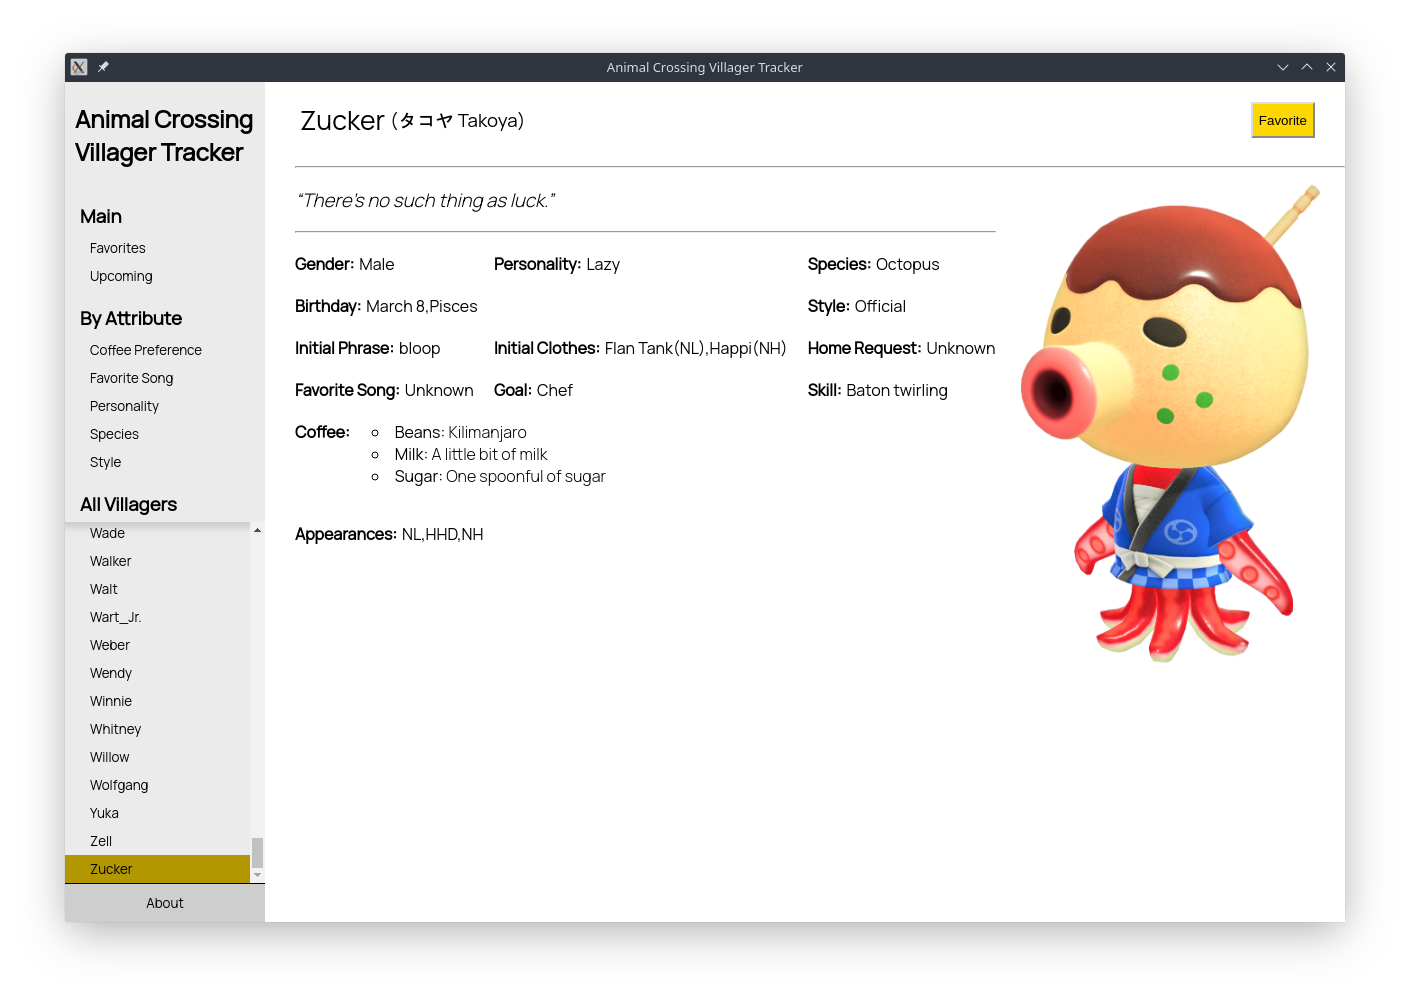
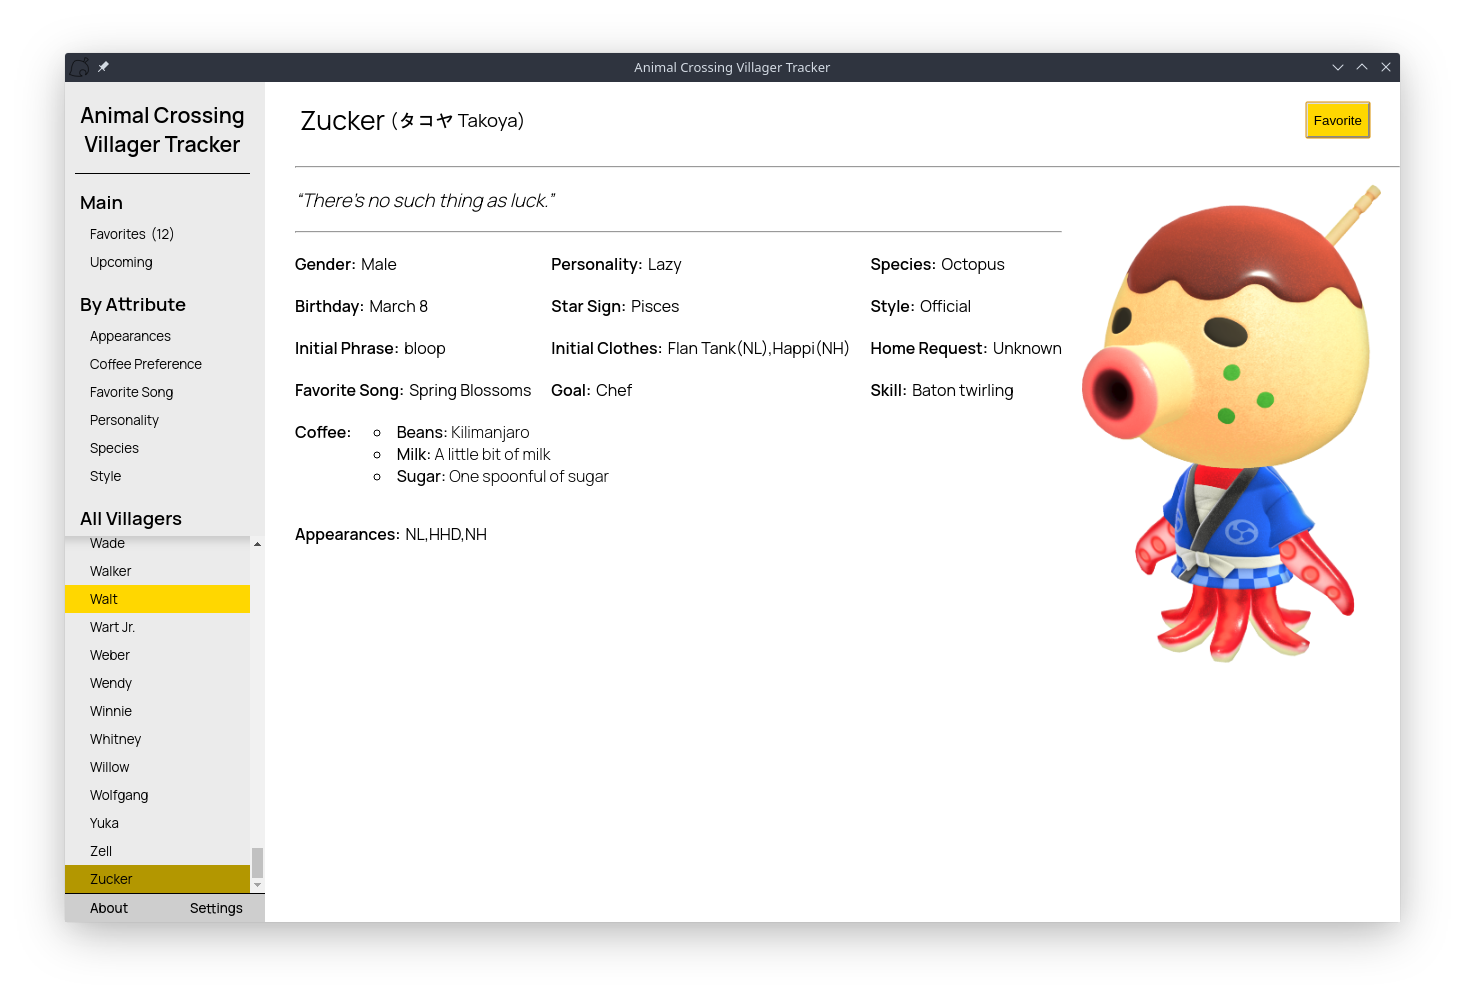
Updated App Menu, fixed picking new page on undo, still bugged on undo

diff --git a/main-process/app-menu.js b/main-process/app-menu.js
@@ -1,4 +1,5 @@
 const {BrowserWindow, app, shell, remote} = require('electron')
+const Navigation = require("../assets/navigation-stack");
 
 module.exports = {
 
@@ -7,6 +8,17 @@ module.exports = {
         let AppMenu = [{
             label: 'File',
             submenu: [{
+                label: 'Go Back',
+                accelerator: 'CmdOrCtrl+Z',
+                enabled: true,
+                key: 'goBack',
+                click: () => {
+                  // app.emit('activate')
+                  Navigation.pop();
+                }
+              }, {
+                type: 'separator'
+              }, {
                 label: 'Quit',
                 accelerator: 'Ctrl+Q',
                 click: () => { 
@@ -88,10 +100,24 @@ module.exports = {
                     shell.openExternal('https://github.com/bradendubois/animal-crossing-nh-villager-tracker')
                 }
             }, {
-                label: 'Open an Issue',
+                type: 'separator'
+            }, {
+                label: 'Report a Bug',
+                click: () => {
+                    shell.openExternal('https://github.com/bradendubois/animal-crossing-nh-villager-tracker/issues/new?assignees=bradendubois&labels=&template=bug-report-template.md&title=Bug+Report+%5BSUMMARY+HERE%5D')
+                }
+            }, {
+                label: 'Request a Feature',
+                click: () => {
+                    shell.openExternal('https://github.com/bradendubois/animal-crossing-nh-villager-tracker/issues/new?assignees=bradendubois&labels=&template=feature-request.md&title=Feature+Request+%5BSUMMARY+HERE%5D')
+                }
+            }, {
+                label: 'Submit a General Issue',
                 click: () => {
                     shell.openExternal('https://github.com/bradendubois/animal-crossing-nh-villager-tracker/issues')
                 }
+            }, {
+                type: 'separator'
             }, {
                 label: 'See My Other Projects',
                 click: () => {

diff --git a/assets/navigation-stack.js b/assets/navigation-stack.js
@@ -11,7 +11,6 @@ function stackCorrection() {
     
     console.log(stack.length, limit)
     if (stack.length > limit) {
-        console.log("Here");
         storage.set("navigation-stack", stack.slice(stack.length - limit));
     }
 
@@ -33,11 +32,12 @@ module.exports = {
 
     pop: () => {
         let stack = storage.get("navigation-stack");  
-        if (stack.length > 0) {
-            let newPage = stack.pop();
+        if (stack.length > 1) {
+            stack.pop();
+            let newPage = stack[stack.length-1];
             storage.set("selectedContent", newPage);
             storage.set("navigation-stack", stack);
+            stackCorrection();
         }
-        stackCorrection();
     }
 }
